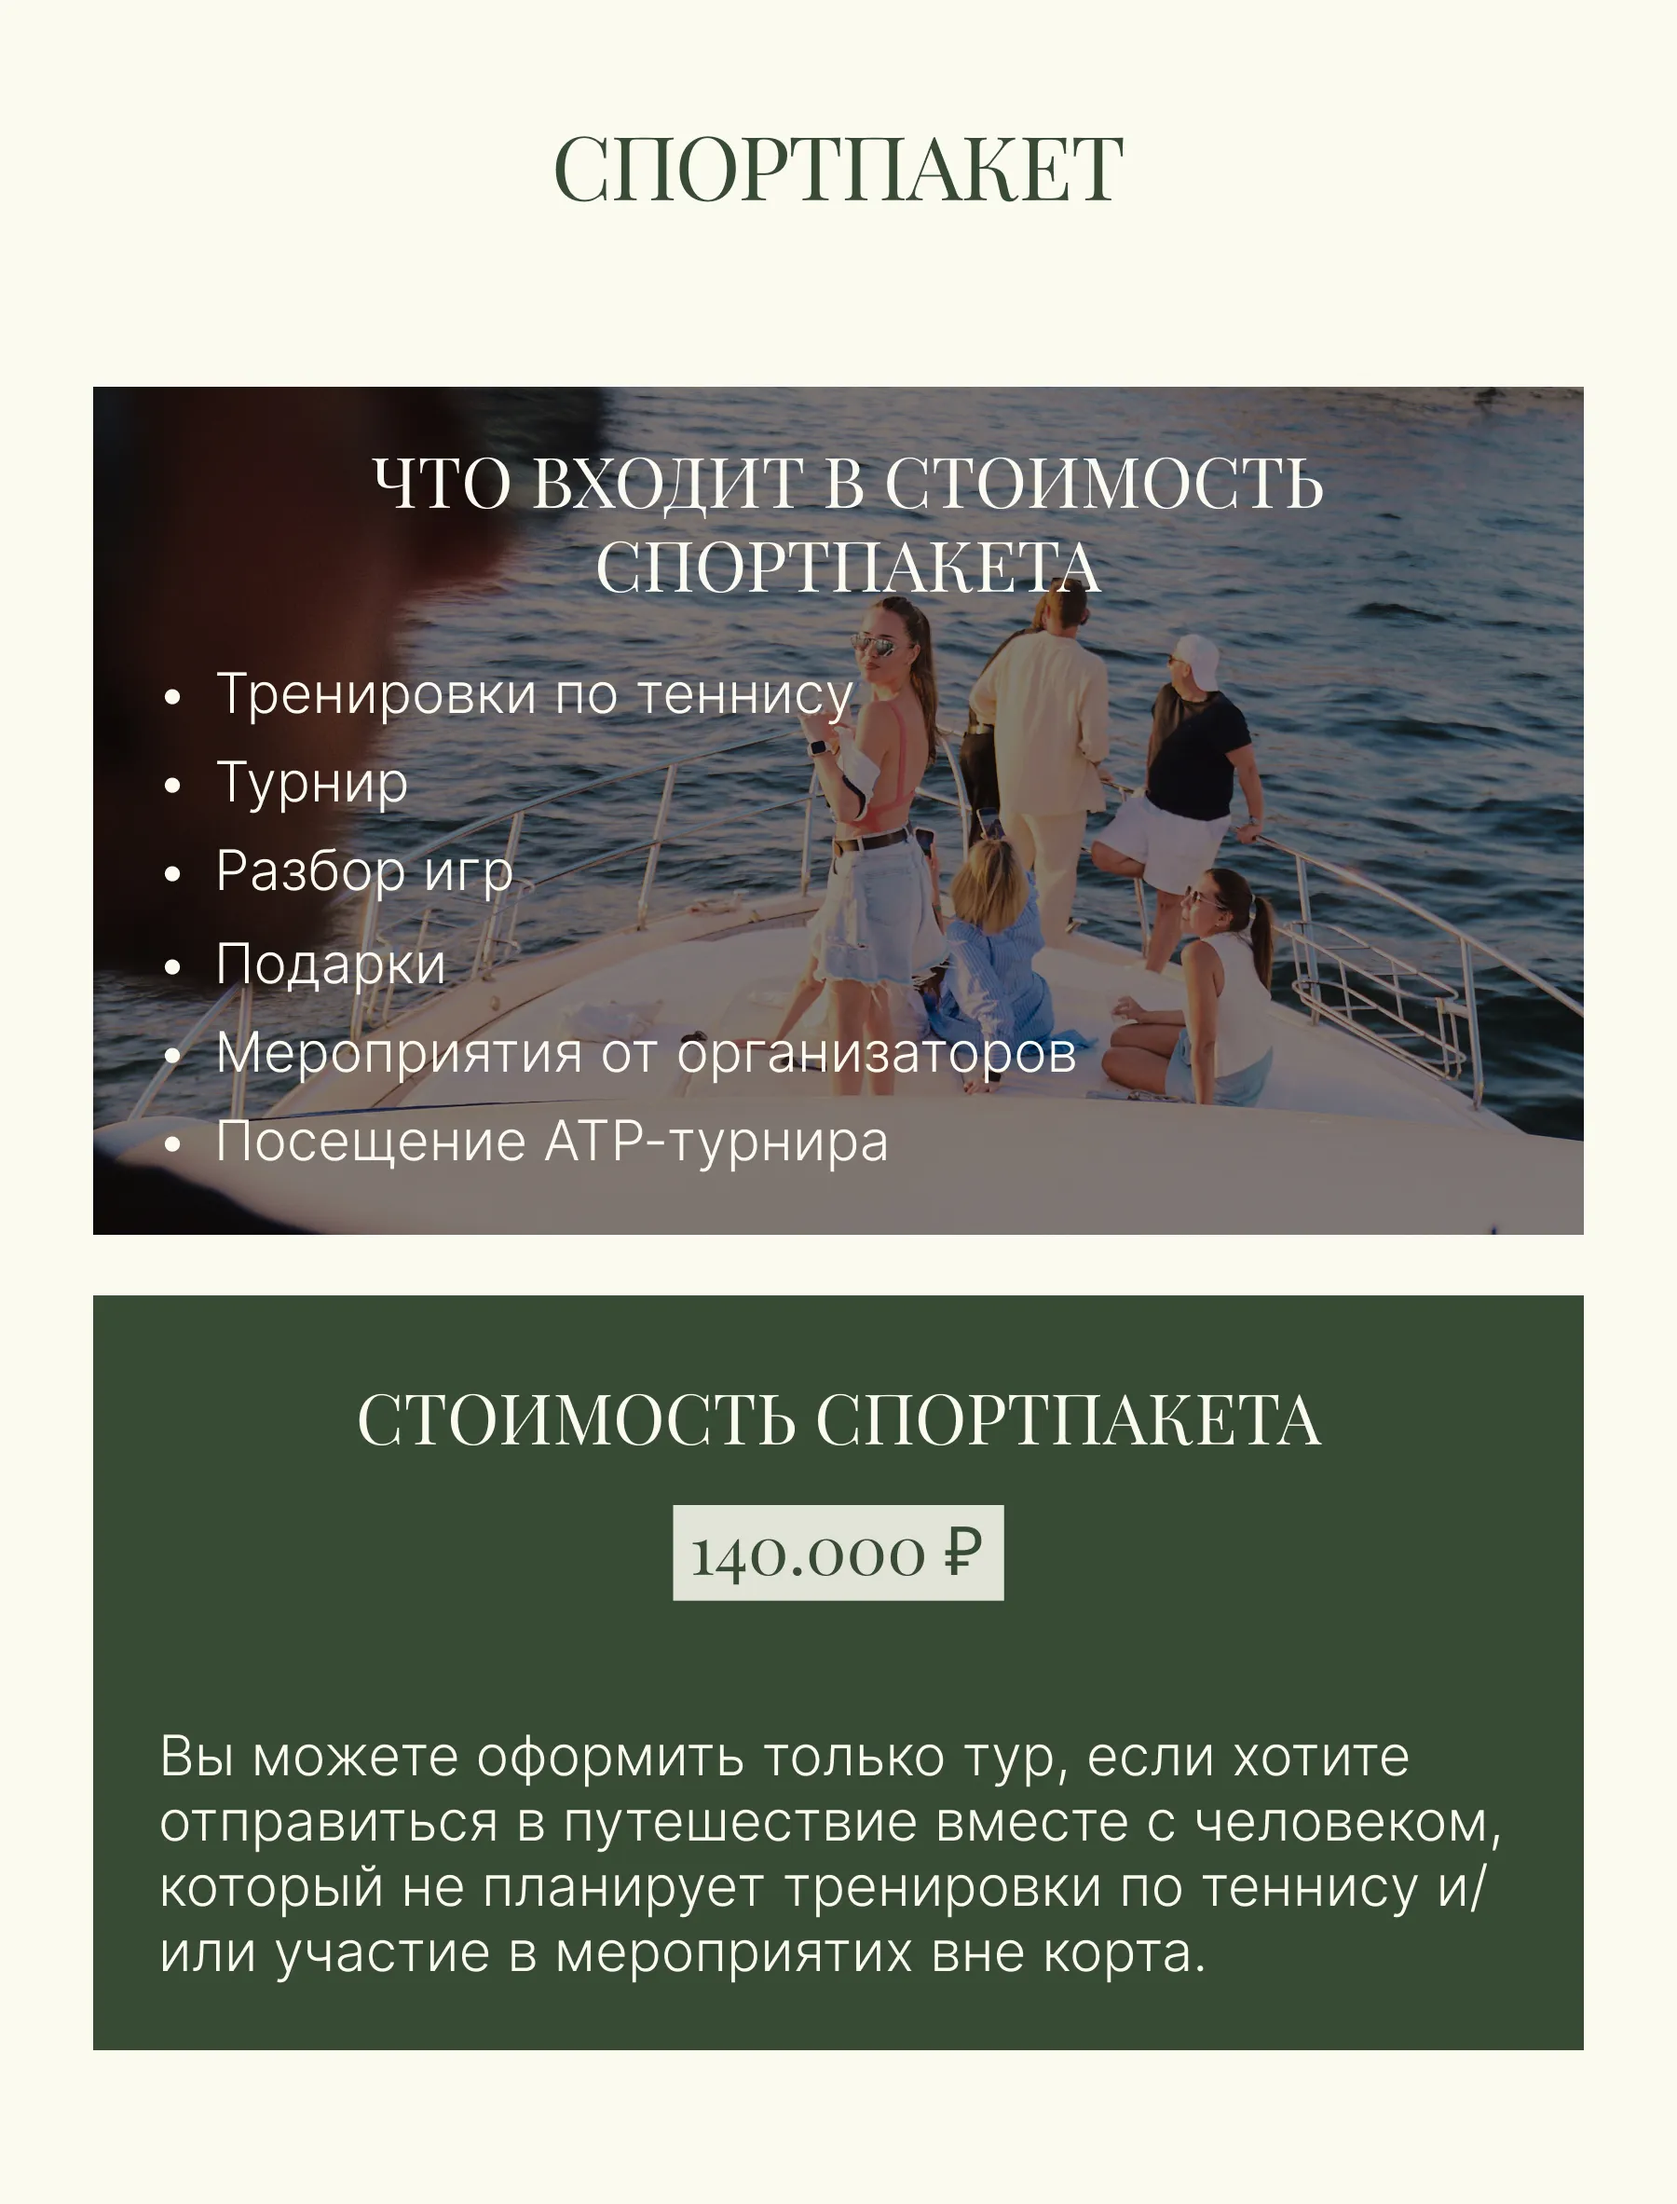
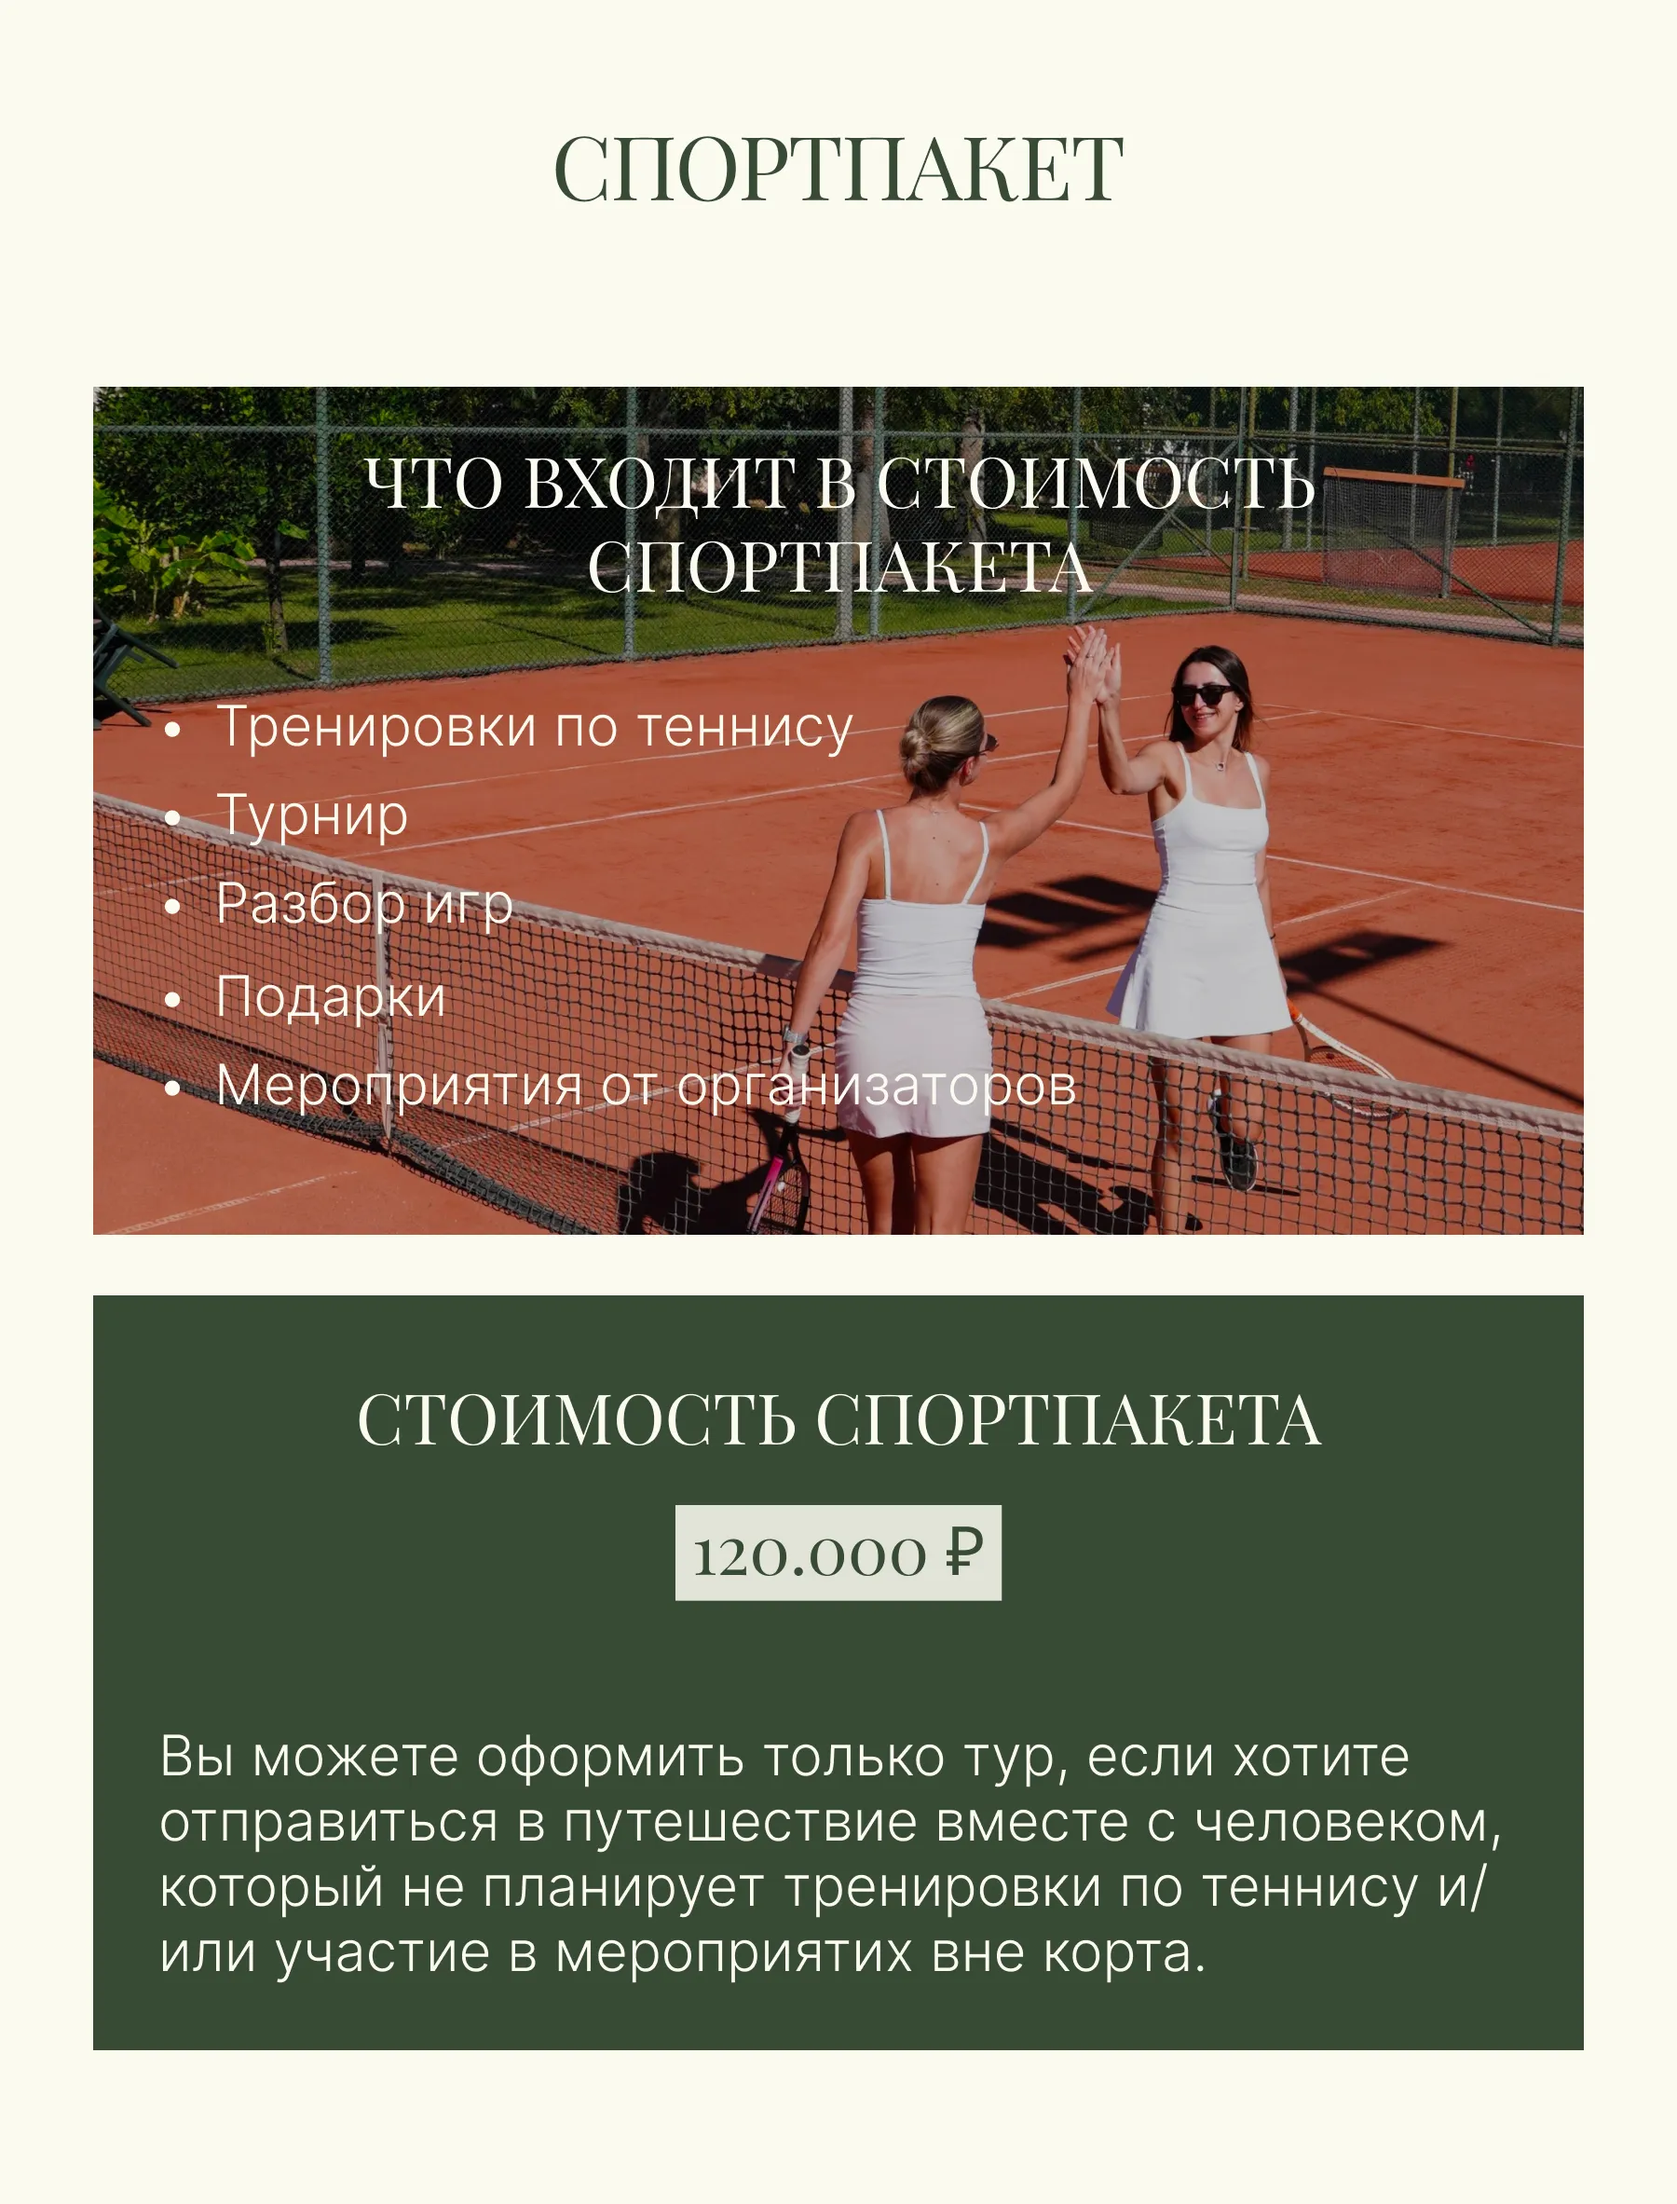
Add files via upload

diff --git a/index.html b/index.html
@@ -15,7 +15,7 @@
 
     <meta name="description"
         content="Теннисный кэмп на Бали — 8 дней тренировок, турнир и отдых в отеле 5★. Мини-группы до 4 человек. 21-29 октября, Бали.">
-    <meta name="keywords" content="теннисный кэмп Бали, теннис кэмп 2026, теннис отдых, теннисный лагерь взрослые">
+    <meta name="keywords" content="теннисный кэмп Бали, теннис кэмп 2027, теннис отдых, теннисный лагерь взрослые">
     <link rel="canonical" href="https://camp-bali.tennis-go-school.ru/">
 
     <meta property="og:title" content="Теннисный кэмп на Бали">
@@ -29,7 +29,7 @@
     {
       "@context": "https://schema.org",
       "@type": "Event",
-      "name": "Теннисный кэмп на Бали 2026",
+      "name": "Теннисный кэмп на Бали 2027",
       "startDate": "2026-01-03",
       "endDate": "2026-01-10",
       "location": {
@@ -390,23 +390,20 @@
                 <div class="price__cards">
 
                     <div class="price__card price__card--green">
-                        <h3 class="price__card-title">ЧТО ВХОДИТ<br>В СТОИМОСТЬ ТУРА</h3>
+                        <h3 class="price__card-title">ЧТО ВХОДИТ<br> В СТОИМОСТЬ ТУРА</h3>
                         <ul class="price__card-list">
-                            <li>Перелет Москва- ОАЭ- Москва</li>
-                            <li>Трансфер групповой</li>
                             <li>Проживание в отеле 5★</li>
-                            <li>Питание: завтрак или полупансион (завтрак+ужин)</li>
-                            <!-- <li>Спортивная и развлекательная часть</li> -->
+                            <li>Завтраки</li>
                         </ul>
-                        <p class="price__card-comm">*Также можем организовать вылет из другого города или оформить вам только отель.</p>
+                        <h3 class="price__card-title">ПЕРЕЛЕТ ИЗ ТВОЕГО <br>ГОРОДА</h3>
+                        <p class="price__card-comm">Оплачивается отдельно. Подберем перелет, который будет вам удобен.</p>
                     </div>
 
                     <div class="price__card price__card--double">
                         <div class="price__card-top">
                             <h3 class="price__card-title">ДВУХМЕСТНОЕ РАЗМЕЩЕНИЕ</h3>
                             <div class="price__card-btn-wrap">
-                              <p>С питанием: завтрак+ужин  <a href="#form" class="price__card-btn" data-open-form="true">от 135.000 ₽</a></p>
-                              <p>С питанием: завтрак <a href="#form" class="price__card-btn" data-open-form="true">от 125.000 ₽</a></p>
+                              <p><a href="#form" class="price__card-btn" data-open-form="true">от 65.000₽</a></p>
                                 <div class="price__tooltip">Указанная стоимость туров может меняться
                                     в зависимости от курса евро и стоимости услуг авиакомпаний и отелей.
 
@@ -422,8 +419,7 @@
                         <div class="price__card-top">
                             <h3 class="price__card-title">ОДНОМЕСТНОЕ РАЗМЕЩЕНИЕ</h3>
                             <div class="price__card-btn-wrap">
-                                <p>С питанием: завтрак+ужин  <a href="#form" class="price__card-btn" data-open-form="true">от 208.000 ₽</a></p>
-                              <p>С питанием: завтрак <a href="#form" class="price__card-btn" data-open-form="true">от 190.000 ₽</a></p>
+                                <p><a href="#form" class="price__card-btn" data-open-form="true">от 130.000₽</a></p>
                                 <div class="price__tooltip">Указанная стоимость туров может меняться
                                     в зависимости от курса евро и стоимости услуг авиакомпаний и отелей.
 
@@ -558,7 +554,7 @@
                 <h2 class="modal__title" id="formTitle">Запишитесь на теннисный кэмп</h2>
 
                 <form
-                    action="https://script.google.com/macros/s/AKfycbyW19NlXyL6QeA5HG82EjYr_FihUG8UFP9huCdJGQhYipCTIGRyohRmWHENc0X2ihY4Yg/exec"
+                    action="https://script.google.com/macros/s/AKfycbxm0-eVHeO2MRdqSqaJ1yZ5lCI9UPkhnx71RTm26_yxfHssPK_Ro2Lq3wgJV4Tf2m1nPA/exec"
                     id="form" class="modal__form" method="post">
                     <div class="modal-field">
                         <input type="text" name="name" id="name" placeholder="Имя" required>
@@ -574,11 +570,9 @@
 
                     <div class="modal-field">
                         <select name="level" id="level" required>
-                            <option value="" disabled selected>Уровень игры</option>
-                            <option value="Начинающий">Начинающий</option>
-                            <option value="Средний">Средний</option>
-                            <option value="Продвинутый">Продвинутый</option>
-                            <option value="Играющий">Играющий</option>
+                            <option value="" disabled selected>Спортпакет</option>
+                            <option value="Да">Тур + Спортпакет</option>
+                            <option value="Нет">Только тур</option>
                         </select>
                     </div>
 
@@ -605,7 +599,7 @@
     </main>
 
     <footer>
-        <h2 class="footer__title">Ты уже представил себя в Абу-Даби, осталось только забронировать место</h2>
+        <h2 class="footer__title">Ты уже представил себя На бали, осталось только забронировать место</h2>
         <div class="footer__body">
             <div class="footer__left-block">
                 <a class="footer__link" href="https://spb.tennis-go-school.ru/tennis">Теннис</a>

diff --git a/style.css b/style.css
@@ -841,8 +841,9 @@ body.menu-is-open {
 
 .price__cards {
     width: 100%;
-    display: flex;
-    flex-direction: column;
+    display: grid;
+    grid-template-columns: 1fr;
+    grid-auto-rows: 1fr;
     gap: 12px;
 }
 
@@ -863,19 +864,23 @@ body.menu-is-open {
 
 .price__card-comm {
     width: 100%;
-    padding-left: 6px;
+    /* padding-left: 6px; */
     text-decoration: none;
     color: var(--white);
     font-family: Inter, sans-serif;
-    font-size: 13px;
+    font-size: 14px;
     font-weight: 300;
     line-height: 1.5;
-    opacity: 40%;
+    /* opacity: 40%; */
 }
 
 .price__card--green .price__card-title {
     font-size: clamp(18px, 4vw, 24px);
     text-align: center;
+}
+
+.price__card--green .price__card-title br {
+    display: none;
 }
 
 .price__card-list {
@@ -1833,23 +1838,24 @@ body.form-is-open {
     }
 
     .price__cards {
-        flex-direction: row;
-        align-items: stretch;
+        grid-template-columns: repeat(3, minmax(0, 1fr));
         gap: 16px;
     }
 
     .price__card {
         flex: 1;
+        min-width: 0;
         min-height: 340px;
         justify-content: space-between;
     }
 
     .price__card-top {
-        flex-direction: column;
+        flex-direction: row;
         align-items: flex-start;
         justify-content: flex-start;
-        gap: 12px;
+        gap: 8px;
         width: 100%;
+        min-width: 0;
     }
 
     .price__card {
@@ -1857,16 +1863,18 @@ body.form-is-open {
     }
 
     .price__card-title {
-        font-size: clamp(27px, 1.8vw, 39px);
+        font-size: clamp(18px, 1.8vw, 39px);
         text-align: left;
-        flex: 1;
+        flex: 1 1 0;
+        min-width: 0;
     }
 
     .price__card-btn {
-        font-size: clamp(21px, 1.5vw, 27px);
-        flex-shrink: 0;
+        font-size: clamp(18px, 1.6vw, 29px);
+        flex-shrink: 1;
         margin-left: 0; 
         align-self: flex-start;
+        padding: 3px 6px;
     }
 
     .price__card-btn-wrap p {
@@ -1874,6 +1882,15 @@ body.form-is-open {
         text-align: left;
         margin: 8px 0;
         gap: 10px;
+    }
+
+    .price__card-btn-wrap {
+        flex: 0 1 auto;
+        min-width: 0;
+    }
+
+    .price__card-btn-wrap p .price__card-btn {
+        margin-left: 0;
     }
 
     .price__card-btn-wrap:hover .price__tooltip {
@@ -1891,6 +1908,10 @@ body.form-is-open {
     .price__card--green .price__card-title {
         font-size: clamp(18px, 1.8vw, 26px);
         text-align: left;
+    }
+
+    .price__card--green .price__card-title br {
+        display: initial;
     }
 
     .price__card-list, .price__card-comm {
